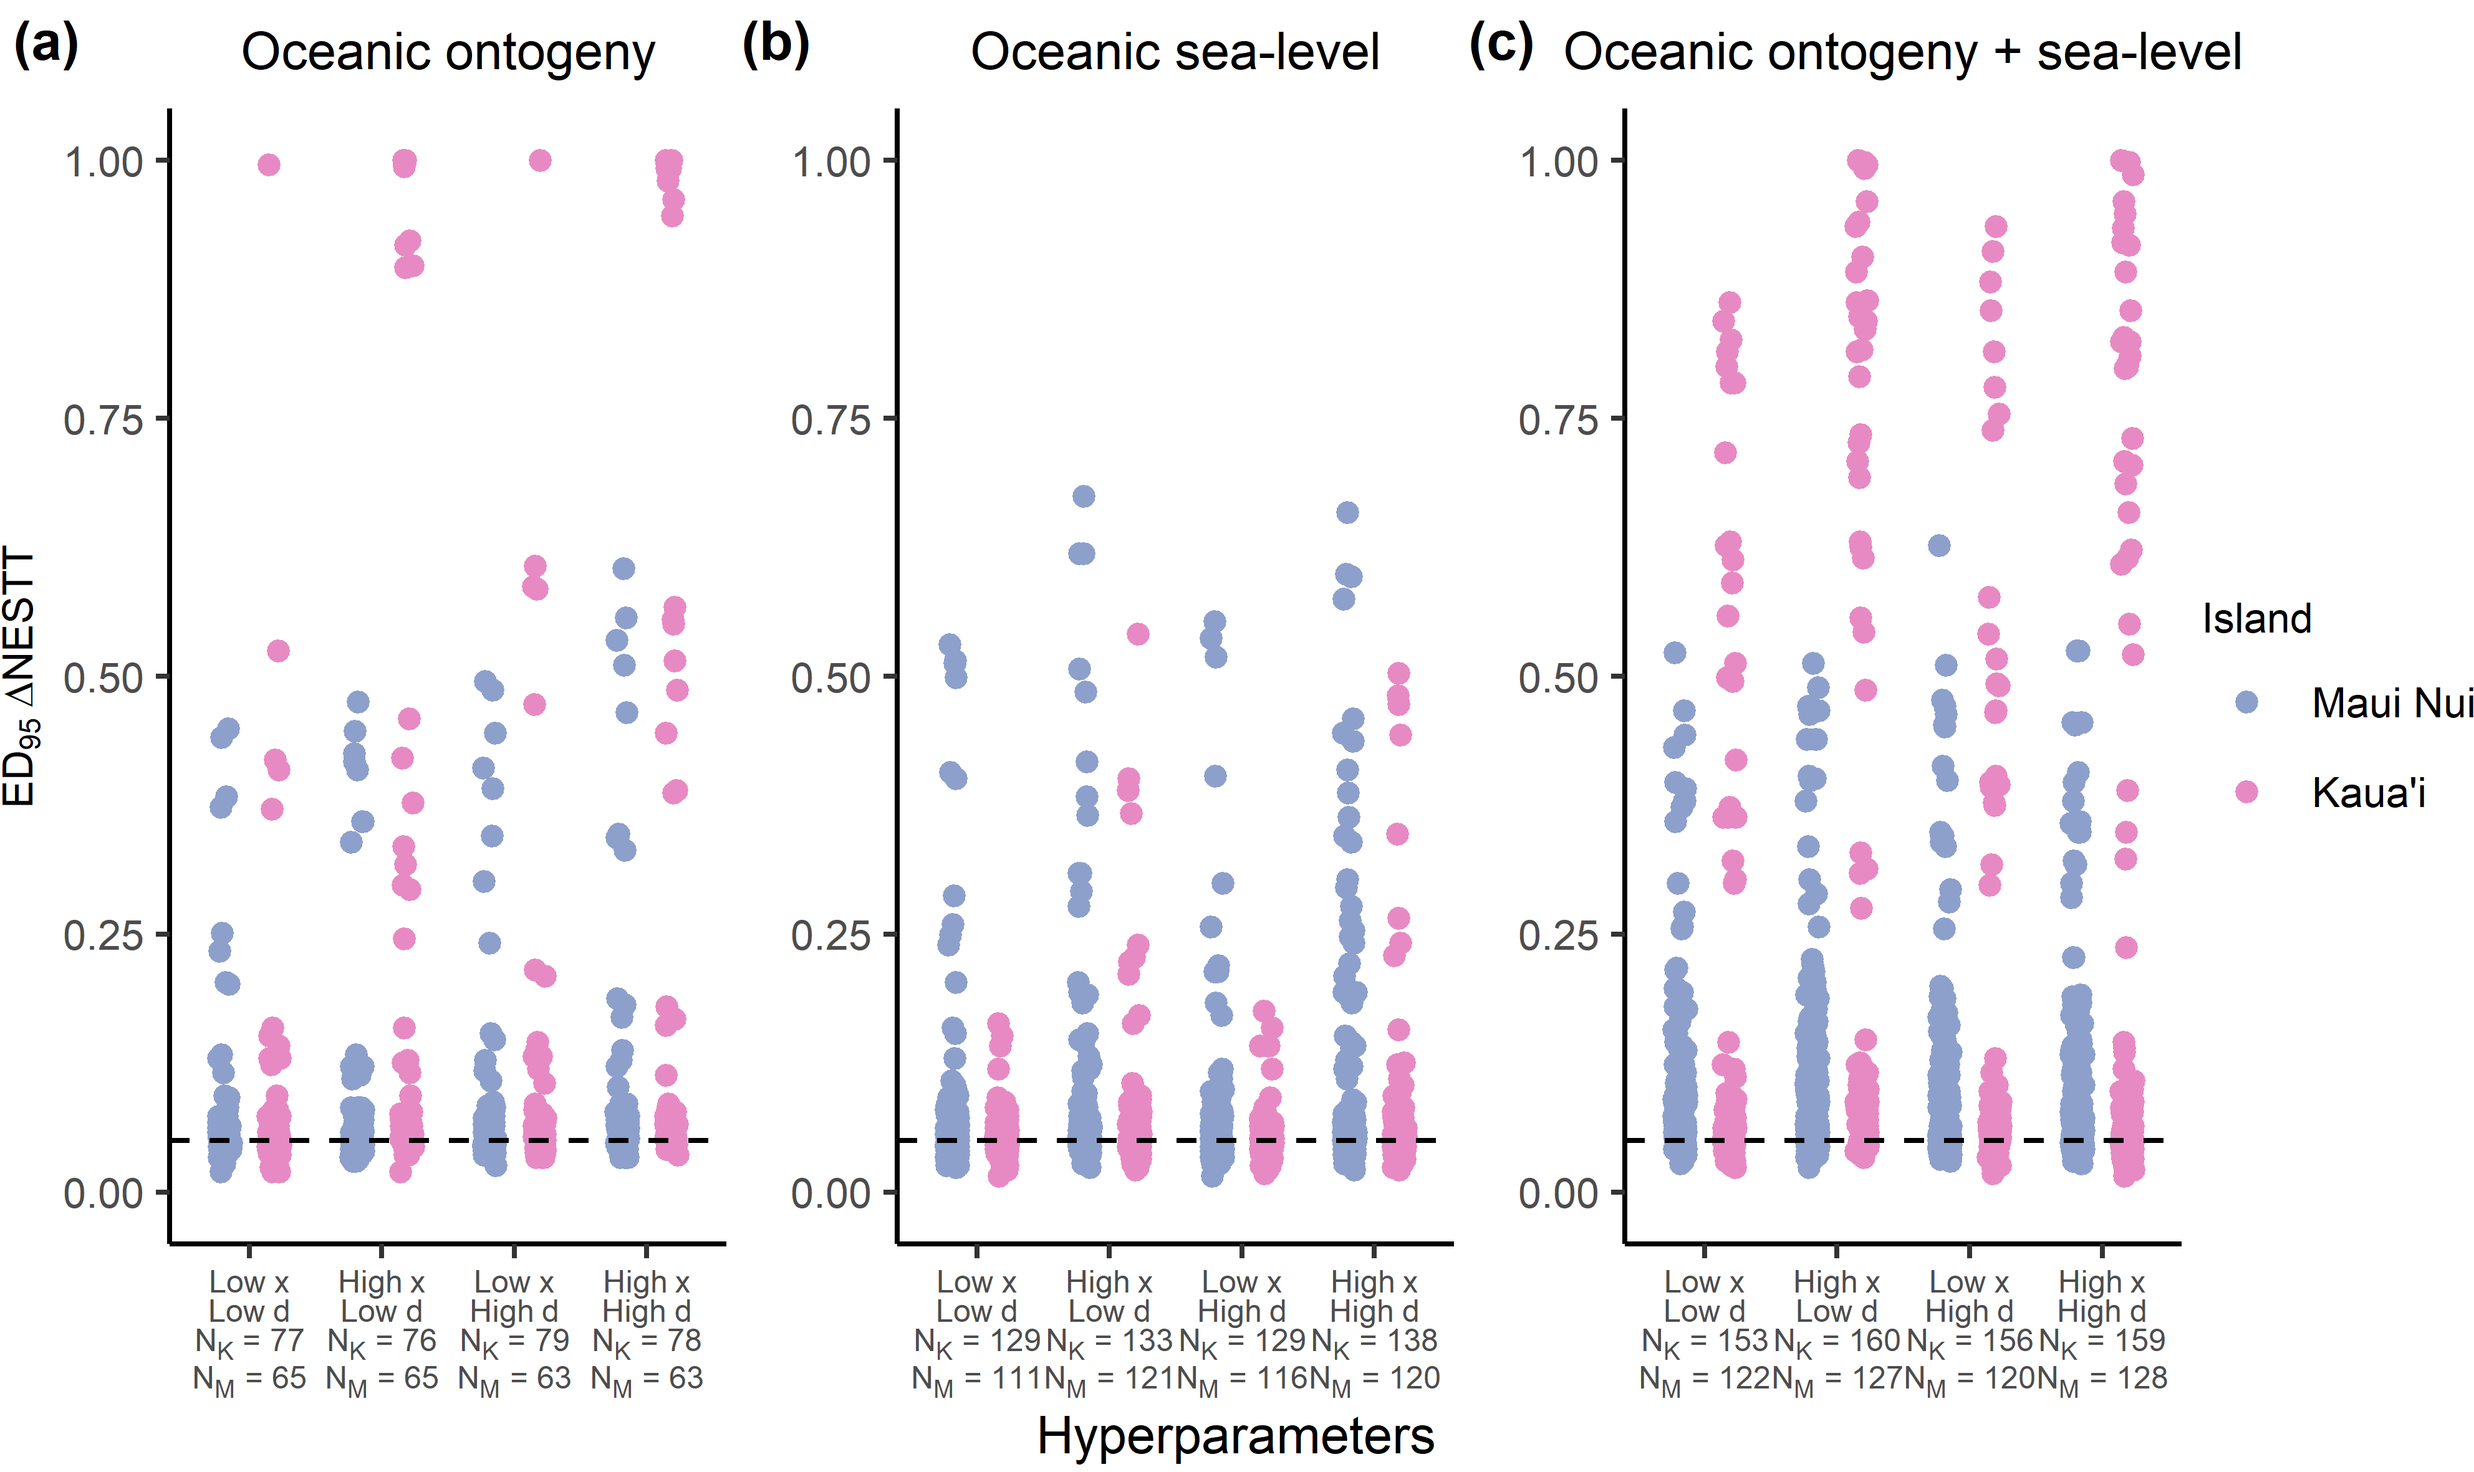
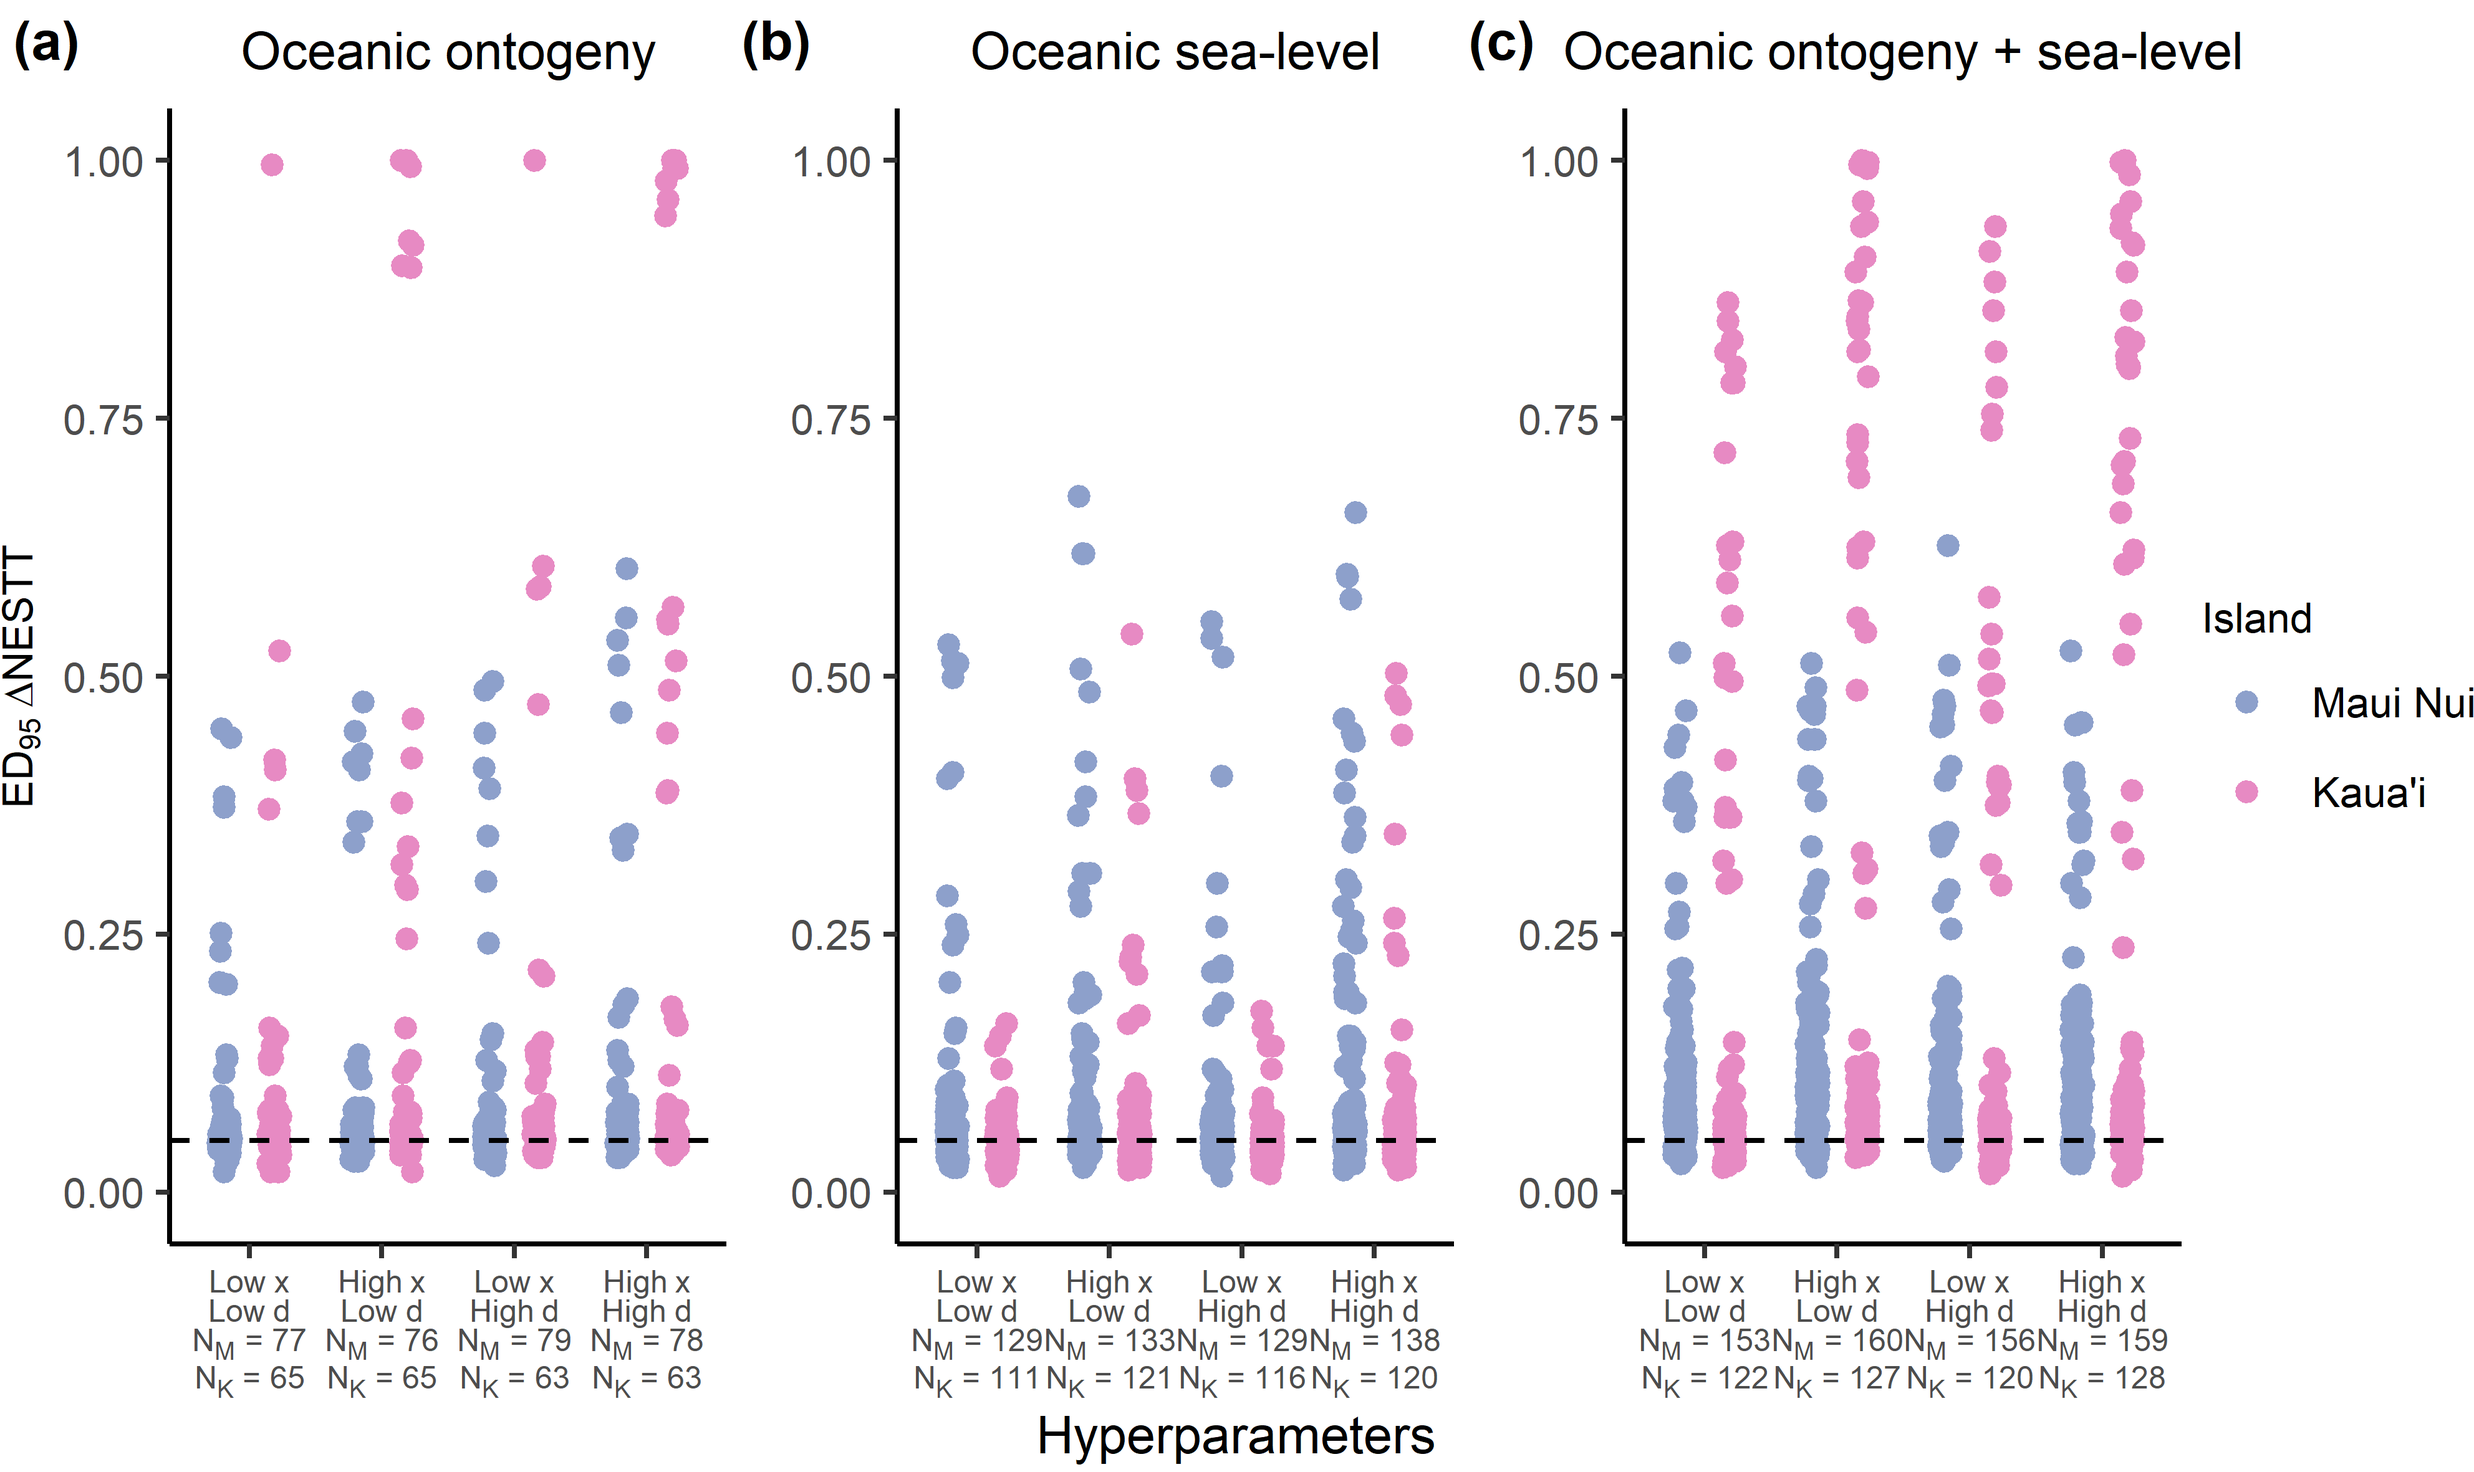
New plots

diff --git a/main.tex b/main.tex
@@ -163,9 +163,9 @@ The robustness pipeline (Fig. \ref{fig:pipeline}) was run until 500 replicates w
 
 \subsection*{Geodynamic oceanic islands}
 
-Oceanic islands with ontogeny, sea-level fluctuations, or both, frequently cause minimal error when reconstructing total species, endemic species, and non-endemic species-through-time based on parameters inferred with the DAISIE inference model (Fig. \ref{fig:scenario} \& \ref{fig:oceanic_hyperparameters_spec_nltt}, Fig. \ref{fig:Hyperparameters_endemic} \& \ref{fig:Hyperparameters_nonendemic}). In spite of this, there are a few results that show large discrepancies in species-through-time metrics (Fig. \ref{fig:scenario}a \& \ref{fig:scenario}c \& \ref{fig:scenario}e). Those points that show the highest error are produced from geodynamic simulations with an IW diversity-dependence and are absent from CS and diversity-independent scenarios (Fig. \ref{fig:facet_scenario_cs}-\ref{fig:facet_scenario_di}). The number of species and number of island colonising clades at present, for all oceanic area-dependent scenarios, are both remarkably well predicted; showing negligible error with all results clustering around the expected baseline error (i.e. no additional error, ED\textsubscript{95} $\approx$ 0.05; see Fig. \ref{fig:scenario}g \& \ref{fig:scenario}i). In summary, DAISIE inference performs well in most geodynamic scenarios. \\
+Oceanic islands with ontogeny, sea-level fluctuations, or both, frequently cause minimal error when reconstructing total species, endemic species, and non-endemic species-through-time based on parameters inferred with the DAISIE inference model (Fig. \ref{fig:scenario} \& \ref{fig:Hyperparameters_spec_nltt}, Fig. \ref{fig:Hyperparameters_endemic} \& \ref{fig:Hyperparameters_nonendemic}). In spite of this, there are a few results that show large discrepancies in species-through-time metrics (Fig. \ref{fig:scenario}a \& \ref{fig:scenario}c \& \ref{fig:scenario}e). Those points that show the highest error are produced from geodynamic simulations with an IW diversity-dependence and are absent from CS and diversity-independent scenarios (Fig. \ref{fig:facet_scenario_cs}-\ref{fig:facet_scenario_di}). The number of species and number of island colonising clades at present, for all oceanic area-dependent scenarios, are both remarkably well predicted; showing negligible error with all results clustering around the expected baseline error (i.e. no additional error, ED\textsubscript{95} $\approx$ 0.05; see Fig. \ref{fig:scenario}g \& \ref{fig:scenario}i). In summary, DAISIE inference performs well in most geodynamic scenarios. \\
 
-Hyperparameters (\textit{x} and \textit{d}) controlling the effect size of area change determined the error made on \textbf{}$\Delta$ESTT for oceanic ontogeny (without sea-level) with high values of \textit{d} (strong effect of area on cladogenesis) causing the largest error, especially for Kaua'i (Fig. \ref{fig:oceanic_hyperparameters_spec_nltt}a, Fig. \ref{fig:Hyperparameters_endemic}a \& \ref{fig:Hyperparameters_endemic}c). For sea-level change on its own, the error in $\Delta$STT and $\Delta$ESTT was around the null expectation (0.05) for all hyperparameters for both island ages (Fig. \ref{fig:oceanic_hyperparameters_spec_nltt}b \& Fig. \ref{fig:Hyperparameters_endemic}b). In the case of ontogeny and sea-level operating together, inference with the DAISIE model showed higher error in $\Delta$STT compared to $\Delta$ESTT and $\Delta$NESTT (Fig. \ref{fig:oceanic_hyperparameters_spec_nltt}). When reconstructing non-endemic species-through-time, oceanic island ontogeny and sea-level fluctuations, separately, cause minimal error on DAISIE inference, which is not strongly affected when altering the effect of area on cladogenesis (\textit{d}) or extinction (\textit{x}) (Fig. \ref{fig:Hyperparameters_nonendemic}a \& \ref{fig:Hyperparameters_nonendemic}b). Ontogeny and sea-level operating together produce somewhat higher error in $\Delta$NESTT (Fig. \ref{fig:Hyperparameters_nonendemic}c). The $\Delta$STT, $\Delta$ESTT, and $\Delta$NSTT have equal error at both island gradients for sea-level (Fig. \ref{fig:oceanic_sea_level_gradient_nltt}) and ontogeny plus sea-level (Fig. \ref{fig:oceanic_ontogeny_sea_level_gradient_nltt}). Changes in hyperparameter values (\textit{d} and \textit{x}) and island gradient (for the scenarios that include sea-level) did not considerably alter the error for the number of species and colonists at present (Fig. \ref{fig:Hyperparameters_num_spec}-\ref{fig:Island_gradient_ontogeny_sea_level_num_spec}).\\
+Hyperparameters (\textit{x} and \textit{d}) controlling the effect size of area change determined the error made on \textbf{}$\Delta$ESTT for oceanic ontogeny (without sea-level) with high values of \textit{d} (strong effect of area on cladogenesis) causing the largest error, especially for Kaua'i (Fig. \ref{fig:Hyperparameters_spec_nltt}a, Fig. \ref{fig:Hyperparameters_endemic}a \& \ref{fig:Hyperparameters_endemic}c). For sea-level change on its own, the error in $\Delta$STT and $\Delta$ESTT was around the null expectation (0.05) for all hyperparameters for both island ages (Fig. \ref{fig:oceanic_hyperparameters_spec_nltt}b \& Fig. \ref{fig:Hyperparameters_endemic}b). In the case of ontogeny and sea-level operating together, inference with the DAISIE model showed higher error in $\Delta$STT compared to $\Delta$ESTT and $\Delta$NESTT (Fig. \ref{fig:oceanic_hyperparameters_spec_nltt}). When reconstructing non-endemic species-through-time, oceanic island ontogeny and sea-level fluctuations, separately, cause minimal error on DAISIE inference, which is not strongly affected when altering the effect of area on cladogenesis (\textit{d}) or extinction (\textit{x}) (Fig. \ref{fig:Hyperparameters_nonendemic}a \& \ref{fig:Hyperparameters_nonendemic}b). Ontogeny and sea-level operating together produce somewhat higher error in $\Delta$NESTT (Fig. \ref{fig:Hyperparameters_nonendemic}c). The $\Delta$STT, $\Delta$ESTT, and $\Delta$NSTT have equal error at both island gradients for sea-level (Fig. \ref{fig:oceanic_sea_level_gradient_nltt}) and ontogeny plus sea-level (Fig. \ref{fig:oceanic_ontogeny_sea_level_gradient_nltt}). Changes in hyperparameter values (\textit{d} and \textit{x}) and island gradient (for the scenarios that include sea-level) did not considerably alter the error for the number of species and colonists at present (Fig. \ref{fig:Hyperparameters_num_spec}-\ref{fig:Island_gradient_ontogeny_sea_level_num_spec}).\\
 
 \subsection*{Continental islands with and without land-bridges}
 
@@ -188,9 +188,9 @@ For continental islands, when species are initially on the island, the present-d
 
 \begin{figure}
     \centering
-    \includegraphics[width=\textwidth]{oceanic_hyperparameters_spec_nltt.png}
+    \includegraphics[width=\textwidth]{Hyperparameters_spec_nltt.png}
     \caption{Strip charts showing the distributions of the ED\textsubscript{95} statistic for $\Delta$STT for each combination of hyperparameters (\textit{d} and \textit{x} controlling the effect of area on the rates of cladogenesis and extinction respectively) for the dynamic area oceanic island scenarios. Each point represents the ED\textsubscript{95} for a single parameter set with the specified hyperparameters on the \textit{x}-axis. All plots have a dashed line at 0.05 which is the null expectation of the ED\textsubscript{95}. (a) $\Delta$STT ED\textsubscript{95} statistic for oceanic ontogeny. (b) $\Delta$STT ED\textsubscript{95} statistic for oceanic sea-level. (c) the $\Delta$STT ED\textsubscript{95} statistic for oceanic ontogeny and sea-level. The sample size for each strip is shown for young islands (N\textsubscript{Y}) and old islands (N\textsubscript{O}). Note that the \textit{y}-axis scale is a subset of that in Figure \ref{fig:scenario}, to allow better visualization of small ED\textsubscript{95} values.}
-    \label{fig:oceanic_hyperparameters_spec_nltt}
+    \label{fig:Hyperparameters_spec_nltt}
 \end{figure}
 
 \clearpage
